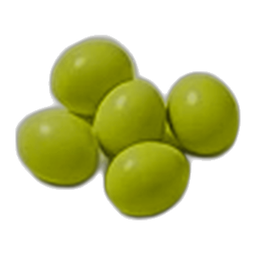
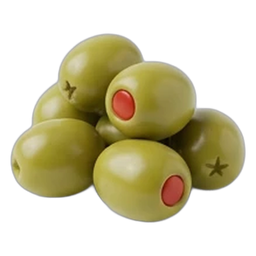
그림 도구로 받은 미니어처 그림 9개로 교체 (올리브·피클·딸기잼·머스터드·랜치 드레싱·샐러드) + 캄파뉴·양상추·래디시 사전에 추가
Claude-Session: https://claude.ai/code/session_01MYGhb6R2QXY6quyyhQiczg

diff --git a/public/sw.js b/public/sw.js
@@ -3,7 +3,7 @@
 // - 그림·스크립트 등: 저장해 둔 것 먼저 (빌드 파일 이름이 바뀌므로 오래된 것이 남지 않음)
 // - /api/ (AI 연결 서버)는 저장하지 않는다
 
-const CACHE = 'fridge-planner-v12'; // 2026-11-10: 부침가루 그림을 그림 쪽만 크게 (같은 파일 이름이라 예전 그림이 남지 않게)
+const CACHE = 'fridge-planner-v13'; // 2026-11-23: 피클·올리브·딸기잼·머스터드·랜치 드레싱·샐러드 그림을 같은 파일 이름으로 바꿈
 
 self.addEventListener('install', () => self.skipWaiting());
 self.addEventListener('activate', (e) => {

diff --git a/src/ai/fridgeDemo.test.ts b/src/ai/fridgeDemo.test.ts
@@ -29,7 +29,7 @@ describe('냉장고 사진 시연', () => {
     expect(picks).toHaveLength(DEMO_FRIDGE_RESULT.items.length);
     expect(picks.find((p) => p.name === '계란')?.qty).toBe('10개');
     expect(picks.find((p) => p.name === '우유')?.qty).toBe('1800ml');
-    expect(picks.find((p) => p.name === '양상추')?.customKind).toBe('leafVeg');
+    expect(picks.find((p) => p.name === '양상추')?.customKind).toBeUndefined(); // 2026-11-23 사전에 넣음
     expect(picks.every((p) => p.category)).toBe(true);
   });
 });

diff --git a/CLAUDE.md b/CLAUDE.md
@@ -148,7 +148,7 @@ Plan { mealsPerWeek, doneMeals[], rejectedRecipes[], swapIndex{} }
 - 상태 이름은 위 표의 화면 이름을 **모든 곳에서 통일** (배지, 필터칩, 헤드라인).
 - 예전 이름(곧 상할, 묻힘 후보, 정상)은 화면 문구에 쓰지 않는다(코드 변수명·주석은 그대로). 문장 안에서 "곧 상할 재료"가 필요하면 **"얼른 먹어야 할 재료"**로 쓴다(2026-10-30, 수정명세 v2의 새 문구에도 적용).
 - 날짜 표기는 모두 `M/D (요일)` (예: `10/30 (금)`), 오늘·내일은 `오늘 · 10/30 (금)`. `src/rules/date.ts`의 `formatDate`·`formatDayLabel`만 쓴다.
-- 이모지 타일은 재료 이름 → 이모지 매핑을 두고, 없으면 핵심재료별 대체, 그것도 없으면 🍽. 그림 순서(2026-11-09): 사전 재료의 그림(`public/ingredients/<image>.png`) → **사전에 없는 재료는 종류별 대표 그림**(`kind-<종류>.png` 27개, AI가 읽거나 직접 고른 `Item.kind`, `imageOf`) → 이모지. 사전 재료는 그림이 없어도 제 이모지가 더 정확해서 종류 그림을 쓰지 않는다. 재료 그림 교체(2026-11-09, 사용자가 준 실사풍 그림 3장): 고기·해산물·채소·과일·양념·치즈 등 92개 재료를 그 그림에서 잘라(배경 제거 rembg isnet) 바꾸거나 새로 넣었고, 대표 그림 10개(잎채소·채소·과일·생고기·간 고기·김치·반찬·밀키트·실온 간편식·우유)도 같은 그림을 모아 만들었다. 원본 512px는 `assets/ingredients`, 웹 256px는 `public/ingredients`. 이어서 같은 스타일로 요청한 그림 2장으로 나머지 74개(파스텔 61개 + 그림 없던 13개)도 바꿔 **모든 사전 재료가 실사 미니어처 그림**이 됐고, 대표 그림 27개도 모두 같은 그림으로 다시 만들었다. 흰 음식(두부·순두부·떡)은 배경과 색이 같아 배경 제거가 어려워, 차이를 키운 그림으로 모양을 찾고 원본에 씌웠다(두부 두 가지는 다른 장의 두부 그림을 같이 씀). 피클·올리브(2026-11-23, 사용자 제보: 냉장고 사진 시연에서 김치 그림으로 나옴): 사전에 새로 넣고, 같은 미니어처 그림을 색만 바꿔 만들었다(피클 = 단무지 접시 + 오이 그림을 피클 색으로, 올리브 = 메추리알 그림을 올리브색으로). 같은 방식으로 딸기잼(꿀 병 속을 잼 색 + 딸기)·머스터드(케첩 병을 노랗게)·랜치 드레싱(케첩 병을 크림색으로)·샐러드(상추 + 방울토마토 + 오이)도 사전에 넣었다.
+- 이모지 타일은 재료 이름 → 이모지 매핑을 두고, 없으면 핵심재료별 대체, 그것도 없으면 🍽. 그림 순서(2026-11-09): 사전 재료의 그림(`public/ingredients/<image>.png`) → **사전에 없는 재료는 종류별 대표 그림**(`kind-<종류>.png` 27개, AI가 읽거나 직접 고른 `Item.kind`, `imageOf`) → 이모지. 사전 재료는 그림이 없어도 제 이모지가 더 정확해서 종류 그림을 쓰지 않는다. 재료 그림 교체(2026-11-09, 사용자가 준 실사풍 그림 3장): 고기·해산물·채소·과일·양념·치즈 등 92개 재료를 그 그림에서 잘라(배경 제거 rembg isnet) 바꾸거나 새로 넣었고, 대표 그림 10개(잎채소·채소·과일·생고기·간 고기·김치·반찬·밀키트·실온 간편식·우유)도 같은 그림을 모아 만들었다. 원본 512px는 `assets/ingredients`, 웹 256px는 `public/ingredients`. 이어서 같은 스타일로 요청한 그림 2장으로 나머지 74개(파스텔 61개 + 그림 없던 13개)도 바꿔 **모든 사전 재료가 실사 미니어처 그림**이 됐고, 대표 그림 27개도 모두 같은 그림으로 다시 만들었다. 흰 음식(두부·순두부·떡)은 배경과 색이 같아 배경 제거가 어려워, 차이를 키운 그림으로 모양을 찾고 원본에 씌웠다(두부 두 가지는 다른 장의 두부 그림을 같이 씀). 피클·올리브(2026-11-23, 사용자 제보: 냉장고 사진 시연에서 김치 그림으로 나옴): 사전에 새로 넣고, 같은 미니어처 그림을 색만 바꿔 만들었다(피클 = 단무지 접시 + 오이 그림을 피클 색으로, 올리브 = 메추리알 그림을 올리브색으로). 같은 방식으로 딸기잼·머스터드·랜치 드레싱·샐러드도 사전에 넣었다. 이어서 사용자가 그림 도구로 같은 미니어처 느낌의 3×3 그림을 받아 와(올리브·피클·딸기잼·머스터드·랜치 드레싱·샐러드·캄파뉴·양상추·래디시) 색만 바꾼 임시 그림을 모두 바꾸고 캄파뉴·양상추·래디시를 사전에 새로 넣었다(흰 그릇 샐러드는 그릇 모양을 직접 그린 틀로 배경을 지움). 같은 파일 이름으로 바꿔서 서비스 워커 캐시를 v13으로 올림.
 
 - 몽환 그라데이션(2026-11-20, 사용자 요청: designnas scubo 참고, 이후 "Hallmark는 신경 쓰지 말고"): 바탕은 **하늘색에서 연보라로 번지는 그라데이션**(`--sky-1~4`, `--glow-sky`·`--glow-lilac`), 카드·칩·탭바는 반투명 유리(`--glass`, 흰 테두리, 그림자 없음), 선택 버튼(`.seg`·상태 필터·보기 전환)은 알약 트랙 안의 파란 알약, 주요 버튼은 파란 그라데이션(`--cta-1/2`). 물방울(빛망울)은 쓰지 않는다. 이 그라데이션은 Hallmark의 "보라→파랑 그라데이션 금지"와 어긋나지만 사용자가 골랐다.
 - 테마 "하늘 냉장고"(2026-11-18 → 2026-11-20 Hallmark restyle, 사용자 요청: 그림자 박스·글꼴이 구림): 연하늘 바탕(`--bg`) 위에 흰 면(`--card`)과 1px 실선(`--line`), **그림자·눌림 두께 없음**(눌림은 색으로만), 강조는 하늘 파랑, 포인트는 버터 노랑(`--sun`, `+ 재료 추가`·`새로` 태그). 글꼴은 **Pretendard 한 가지**(`--font`, jsdelivr 가변 글꼴, 제목은 굵기 800). Hallmark 앱 모드 규칙(Floor: 색·글꼴은 `:root` 변수만, `:focus-visible`·outline 포커스, 비활성은 채움·글자·커서 세 가지, 움직임 줄이기)을 `sloplint`로 검사해 통과. 이모지 아이콘은 냉집사 정체성이라 남겼다(Hallmark Floor 11과 어긋남, 알고 남김). 색·글꼴은 `src/ui/styles.css` 맨 위 변수와 맨 아래 "평평한 부품"에서만 바꾼다. 검사: `node <hallmark>/scripts/sloplint.mjs src/ui/styles.css --genre playful --scope app`.
